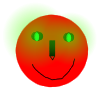
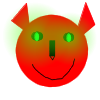
Paszko i Interfacy

Changed region(s): [[0.78, 0.0, 0.96, 0.36], [0.09, 0.03, 0.3, 0.3]]

diff --git a/src/main/java/BossPaszko.java b/src/main/java/BossPaszko.java
@@ -5,32 +5,60 @@ import java.net.URL;
 
 import javax.imageio.ImageIO;
 
-public class BossPaszko extends Enemy implements IEnemy {
+public class BossPaszko extends Enemy implements IEnemyBoss {
 
 	BufferedImage paszko;
-	
+
 	BossPaszko(Window win, int x, int y) {
 		super(x, y);
 		this.win = win;
 		this.x = x;
 		this.y = y;
+		this.velocity_x = 4;
+		this.velocity_y = 2;
 
-		URL url = getClass().getResource("samolot.png");
+		URL url = getClass().getResource("paszko.png");
 		try {
 			paszko = ImageIO.read(url);
 		} catch (IOException e) {
 			e.printStackTrace();
 		}
-		
+
 	}
 
 	@Override
 	public void drawMe(Graphics2D g) {
-		
+		g.drawImage(paszko, x, y, null);
 	}
 
 	@Override
 	public void myMotion() {
+		x += velocity_x;
+		if (generator.nextBoolean())
+			y += velocity_y;
+		else
+			y -= velocity_y;
+		
+		if(y<20) {
+			y=20;
+			velocity_y=-velocity_y;
+		} else if(y>400) {
+			y=400;
+			velocity_y=-velocity_y;
+		}
+		
+		if(x<0) {
+			x=0;
+			velocity_x=-velocity_x;
+		} else if(x+paszko.getWidth()>win.size_x) {
+			velocity_x=-velocity_x;
+		}
+		
+	}
+
+	@Override
+	public void strzal(String rodzaj) {
+		
 		
 	}
 

diff --git a/src/main/java/Window.java b/src/main/java/Window.java
@@ -29,6 +29,7 @@ public class Window implements KeyListener {
 		klatka = new BufferedImage(size_x, size_y, BufferedImage.TYPE_INT_ARGB);
 		statek1 = new Player(this, 400, 500);
 		Enemy.enemies.add(new Asteroid(this, 400, 20));
+		Enemy.enemies.add(new BossPaszko(this, 400, 20));
 
 		Game = new Thread(new Runnable() {
 

diff --git a/src/main/java/IEnemyBoss.java b/src/main/java/IEnemyBoss.java
@@ -1,0 +1,6 @@
+
+public interface IEnemyBoss extends IEnemy {
+	
+	void strzal(String rodzaj);
+
+}
